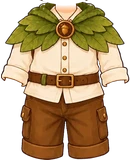
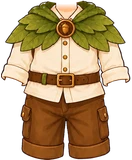
도토리 탐험복(남아): 턱 아래 양옆 짧은 선 제거 (#755)
* 해적 신발 크기·위치 재조정 (베이스 다리 비율에 맞춤)

- 해적 남아 원화와 비교해 베이스가 다리가 짧고 가늘어서, 신발 높이를 112로
  줄이고 윗선을 y827에 맞춤(발바닥 y939)
- 왼짝·오른짝을 따로 배치해 발별로 미세 조정할 수 있게 함
- 같은 파일명이라 경로에 ?v=2

Claude-Session: https://claude.ai/code/session_018maNuYqDfFyRSe9uKpZhPR

* 오늘의 발견을 수첩에 붙인 메모지 디자인으로 변경

- 크림색 종이 질감 + 연두 마스킹테이프, 테두리 없이 그림자·거친 가장자리로만 표현
- 수첩보다 살짝 좁게, '오늘의 발견'은 작게 · 발견 내용은 진한 갈색으로 크게
- 도감 버튼을 오른쪽 작은 알약 버튼(도감 N개 ›)으로
- '탐험일지' 머리말 아래 · 수첩 바로 위로 이동
- App.jsx에서 DiscoveryMemo 컴포넌트로 분리

Claude-Session: https://claude.ai/code/session_018maNuYqDfFyRSe9uKpZhPR

* 오늘의 발견 메모지: 글씨 줄이고 테이프를 왼쪽 위 모서리 대각선으로

- 발견 내용 16.5 → 14 (폰에서 짧은 힌트도 두 줄로 꺾이던 문제), 머리말·도감 버튼·아이콘도 한 단계씩
- 위쪽 가운데 테이프가 '탐험일지' 머리말 줄과 겹쳐 보여 왼쪽 위 모서리에 대각선으로

Claude-Session: https://claude.ai/code/session_018maNuYqDfFyRSe9uKpZhPR

* 오늘의 발견 메모지: 힌트 날의 발자국 아이콘 제거

발자국 자리만큼 힌트가 한 줄에 더 들어가게 함. 찾은 날의 발견 이모지는 유지.

Claude-Session: https://claude.ai/code/session_018maNuYqDfFyRSe9uKpZhPR

* 남아 아바타 기본 몸체 새 버전으로 교체

사용자 제공 원화(갈색 짧은 머리)로 body.webp 업데이트.
버전을 v8 → v9로 올려 기존 기기 캐시 무효화.
art-src/body-boy-src.webp에 원본 보관 (webp q92).

Claude-Session: https://claude.ai/code/session_018maNuYqDfFyRSe9uKpZhPR

* 남아 베이스 v9 탑재 바로잡기 (머리 겹침·비율 깨짐 수정)

직전 커밋은 원화(머리 포함 전신)를 1024×1024로 통째로 늘려 body.webp에 넣어
베이스 머리가 그 위에 또 그려지고 몸 비율도 깨졌다. v8과 같은 공식으로 다시 탑재:
- 알파 상자를 v8 자리(y89~942, 가로 중심 512)에 맞춤 — 실루엣 IoU 0.976이라 장비 재조정 불필요
- y405에서 가로로 잘라 head/body, 합본 default까지 3장 교체, 경로 ?v=9
- art-src: base-v9-boy-src.webp로 이름 정리, 규칙 6에 따라 base-v8-boy-src 삭제
[…]

diff --git a/src/data/avatarEquipment.js b/src/data/avatarEquipment.js
@@ -306,7 +306,7 @@ export const AVATAR_CATALOG = [
   /* [2026-10-02] 새 원화로 교체 (잎사귀 망토 + 크림 셔츠 + 갈색 반바지 한 벌, 사용자 원화) — 위 탑재값은 옛 판 기록.
      비치룩·보드룩과 같은 방식: 원화 목 중심(x227.43)을 x516 에, 턱선 y14 를 y399 에 고정하고 어깨·속옷이 다 가려지는
      가장 작은 배율 0.71. 턱은 지우고, 목 살(크림 깃과 R−B 로 구분)만 페이드로 베이스 목과 섞었다. 탑재 상자 (355,391)-(671,782). */
-  { id: "top_acorn",      slot: "top",   label: "도토리 탐험복", emoji: "🌰", price:DECOR_PRICE.rare, rarity: "rare", theme: "adventure", forGender: "boy", coversBottom: true, img: "assets/avatar/top/acorn-outfit-boy.webp?v=3", thumb: "assets/avatar/thumb/top_acorn.webp?v=3" },
+  { id: "top_acorn",      slot: "top",   label: "도토리 탐험복", emoji: "🌰", price:DECOR_PRICE.rare, rarity: "rare", theme: "adventure", forGender: "boy", coversBottom: true, img: "assets/avatar/top/acorn-outfit-boy.webp?v=4", thumb: "assets/avatar/thumb/top_acorn.webp?v=4" },
   { id: "top_space",      slot: "top",   label: "우주복",       emoji: "🚀", price:DECOR_PRICE.epic, rarity: "epic", theme: "space",  coversBottom: true, img: "assets/avatar/top/space-suit-boy.webp?v=3", imgGirl: "assets/avatar/top/space-suit-girl.webp", thumb: "assets/avatar/thumb/top_space.webp?v=3", thumbGirl: "assets/avatar/thumb/top_space-girl.webp" },
 
   /* ── 우주 세트 (남아) — 사용자 원화 2026-09-29 ────────────────────────────

diff --git a/art-src/README.md b/art-src/README.md
@@ -362,7 +362,7 @@ getBoundingClientRect로 재서 정한다. 2026-08-05 점검에서 이 기준을
 | hoodie-boy-src.webp | **민트 후드 원화 남아 — 새 판 (사용자 원화 2026-10-02, 이전 판 교체)**. 465×720 투명 배경, 민트 집업 후드 + 흰 티 + 남색 카고 긴바지 한 벌. 위쪽에 베이스 턱·목이 함께 그려져 있어 그 턱으로 위치를 잡았다: 턱+목(원화 y0~100 · x95~365, 살색·갈색 선 마스크)을 베이스 민머리 몸에 마스크 템플릿 매칭 → 배율 0.695 · 왼쪽 위 (355,365). 탑재 전 열마다 맨 아래 살색까지의 살색·갈색·반투명 픽셀을 지워 턱을 없앤 뒤, 목 살은 원화 y53 아래부터 되살렸다 (다 지우면 목 구멍으로 베이스 민소매 끈이 비침 · y55 는 이음새 줄이 보임). 위쪽 부스러기 조각 제거 → 조각 1개. 속옷 비침 0. 탑재 상자 (355,385)-(678,865). 경로 ?v=2 | avatar/top/hoodie-boy.webp · thumb/top_hoodie.webp |
 | beach-boy-outfit-src.webp | **비치룩 원화 남아 (사용자 원화 2026-10-02)**. 433×507 투명 배경, 꽃무늬 오렌지 셔츠 + 흰 티 + 청록 수영 반바지 한 벌. 위쪽에 베이스 턱·목이 함께 그려져 있다. 턱 곡선 매칭은 오차가 커서(8px) 쓰지 않고, 원화 목 중심(x222.3)을 베이스 목 중심 x516 에, 원화 턱선 y28 을 y402 에 고정한 뒤 어깨 드러남이 줄어드는 배율을 골랐다 → 배율 0.72 · 왼쪽 위 (355.9,381.8). 원화 y30 위의 살색·갈색·반투명 픽셀 제거(턱), 원화 턱선이 베이스 턱보다 ~7px 낮아 목 살(원화 y30~52, x150~300)을 위에서 아래로 0→1 로 페이드, 목 가운데 남은 턱선 조각(갈색 112px) 제거 → 조각 1개. **[격자 확정 2026-10-02]** 처음엔 원화 y30 위의 갈색·반투명을 다 지워 깃 끝 윤곽선이 잘렸다 → 위쪽 가장자리에 닿는 턱 살 덩어리 + 그 7×7 둘레의 주황·살색이 아닌 픽셀만 지우게 고쳐 되살렸다(120px). 사용자가 격자로 보며 배율 0.72 → 0.7056(2% 작게) · 원화 y28 을 y402 → y399(위로 3) 로 확정. 속옷 비침 2px. 탑재 상자 (359,393)-(665,737) · 경로 ?v=2 | avatar/top/beach-outfit-boy.webp · thumb/top_beach.webp |
 | board-boy-outfit-src.webp | **보드룩 원화 남아 (사용자 원화 2026-10-02)**. 454×519 투명 배경, 크림 후드(남색·청록 소매) + 남색 카고 반바지 한 벌. 위쪽에 베이스 턱·목이 함께 그려져 있다. 크림 후드가 살색 판정에 걸려서, 원화 y28 위에서 **위 가장자리에 닿는 살 덩어리(4-연결)**만 턱으로 보고 9×9 둘레의 갈색·반투명 픽셀과 함께 지웠다. 후드는 y9 부터라 그 위 줄(턱 윤곽선 끝자락)도 비움. 목 살(원화 y26~48, x185~275)은 0→1 페이드, 목 가운데 턱선 조각(88px) 제거 → 조각 1개. 원화 목 중심 x228.95 → x516, 턱선 y25 → y399(비치룩 확정 높이)로 고정하고 어깨 드러남이 0 에 가까운 가장 작은 배율 0.71(0.70 은 45px 드러남). 속옷 비침 1px. 탑재 상자 (353,385)-(675,749) | avatar/top/board-outfit-boy.webp · thumb/top_board.webp |
-| acorn-boy-src.webp | **도토리 탐험복 원화 남아 (사용자 원화 2026-10-02, 새 버전)**. 448×554 투명 배경. 원화 목 중심 x225.43, 턱선 y14. 배율 0.71(?v=3). 조각 1개, 속옷 비침 1px. 탑재 상자 (357,386)-(673,777) | avatar/top/acorn-outfit-boy.webp · thumb/top_acorn.webp |
+| acorn-boy-src.webp | **도토리 탐험복 원화 남아 (사용자 원화 2026-10-02, 새 버전)**. 448×554 투명 배경. 원화 목 중심 x225.43, 턱선 y14. 배율 0.71. 원화 y0~6 의 턱 윤곽선 끝자락이 얼굴 양옆 턱 아래에 짧은 선으로 보여서 비움(?v=4). 조각 1개, 속옷 비침 1px. 탑재 상자 (357,386)-(673,777) | avatar/top/acorn-outfit-boy.webp · thumb/top_acorn.webp |
 | expedition/item/{lantern,rope,lunchbox,bottle,compass,torch,map}-src.webp | **탐험 준비물 원화 7종 (사용자 원화 2026-09-26~27)** — 88~184px 짜리 작은 그림. 받은 PNG 에 편집기 전용 청크(caBX·eXIf·sBIT·sRGB)가 들어 있어 **PIL 이 파일을 아예 못 열었다** — IHDR·IDAT·IEND 만 남겨 다시 쓰고 나서야 읽혔다(보관본은 그 정리본). **바깥 실루엣은 이미 따여 있었지만 안쪽에 갇힌 흰 배경이 남아 있었다** — 랜턴 손잡이 안·유리 양옆 기둥 사이(3곳 1,574px), 물통 어깨끈 고리 안(3곳 1,035px), 나침반 고리 안(264px), 도시락 손잡이 고리 안(111px). 밧줄·횃불은 깨끗했다. **하이라이트와 배경을 가르는 기준: 덩어리 둘레가 어두운 윤곽선인가.** 배경은 59~86%가 어두운 윤곽선에 둘러싸여 있고, 물통 유리의 흰 반사는 0~8% 였다(물건 색 위에 바로 얹혀 있어서). 지운 자리에 맞닿은 반투명 흰 테도 흰 정도만큼 알파를 깎았다. 배포 높이 96 (배지는 16px 로 그려진다 — 3배 화면까지 넉넉). **[2026-09-27] 보물지도 추가** — 이건 안쪽 흰 배경도 없이 처음부터 깨끗했지만(조각 1·구멍 0), 대신 **알파 1~19 짜리 헤일로 9,508px** 이 있어 알파 상자가 1220×947 → 1254×1206 으로 늘어났다. 안 누르고 자르면 세로로 27% 눌린 지도가 된다(성장 캐릭터와 같은 함정). 7장 합계 **43.5KB** | assets/expedition/item/*.webp |
 | (탈것 64장 갇힌 배경 점검 2026-09-27) | 준비물에 쓴 '갇힌 흰 배경 지우기'를 **탈것 32종 × 남녀 64장 전체**에 돌렸다. **결과: 진짜 갇힌 배경은 홍학 한 종뿐이었다** — 접은 다리와 몸 사이 쐐기(남아 597px · 여아 596+486px). 지우고 가장자리 흰 테도 깎았다. **나머지는 전부 '흰 물건'이라 손대면 안 된다** — 구름(14,915px)·얼음 미끄럼틀(40,450px)·유성 꼬리·돌고래 배·고래 물줄기·돛·오토바이 흙먼지·순록 배·로켓 몸통·유니콘 몸통·수정 하이라이트. 자동 판정으로는 이 둘을 못 가른다 — 준비물에 통했던 '둘레가 어두운 윤곽선인가'도, '투명한 바깥에 닿는가'도 여기선 다 걸린다(만화 그림은 흰 물건에도 윤곽선이 있다). 그래서 **150px 이상 후보 88개를 하나씩 눈으로 보고** 골랐다. 앞으로도 탈것은 자동 일괄 처리 금지 — 후보를 뽑아 보고 고를 것 | assets/expedition/ride/flamingo{,-girl}.webp |
 | (탈것 8종 흰 배경 지움 2026-09-27) | **사용자가 눈으로 찾아 준 자리 8종 × 남녀 16장**을 지웠다 — 열기구(사람 양옆) · 낙타(꼬리 옆·턱 아래) · 돌고래(몸과 물 사이·꼬리쪽) · 독수리(사람 양옆·발) · 유성(꼬리 흰색 전부) · 오토바이(겨드랑이·앞바퀴 위·바닥과 모래 사이) · 돛단배(얼굴·손·돛대와 천 사이) · 유니콘(꼬리 옆). **자동 판정을 포기하고 '상자를 주면 그 안에 걸친 밝고 무채색 덩어리를 통째로 지우는' 방식**으로 바꿨다(seedfill) — 덩어리는 상자 밖으로 이어져도 따라가고, 윤곽선에서 알아서 멈춘다. 어디를 지울지는 사람이 정한다. **밝기 기준은 그림마다 다르다** — 보통 (min≥200, 채도폭≤30) 이지만 돛단배는 돛이 연한 하늘색이라 그 기준으로는 돛까지 딸려 와서 (225,14) 로 조였고, 유니콘은 몸이 희어서 (232,14) 를 썼다. 오토바이 흙먼지·헤드라이트·바퀴 허브, 돛, 돌고래 배, 유성 색 꼬리는 **일부러 남겼다.** 지운 뒤 가장자리 흰 테도 깎고 20px 미만 부스러기를 정리했다 — 16장 전부 연결 조각 1개 | assets/expedition/ride/*.webp |
